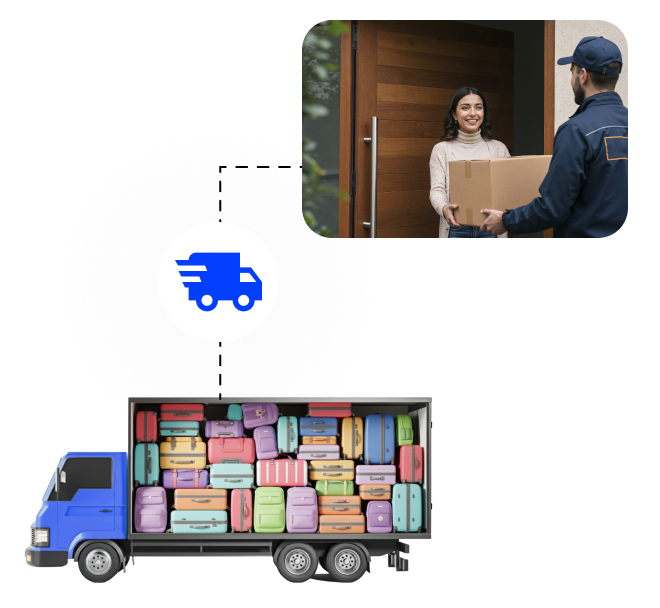
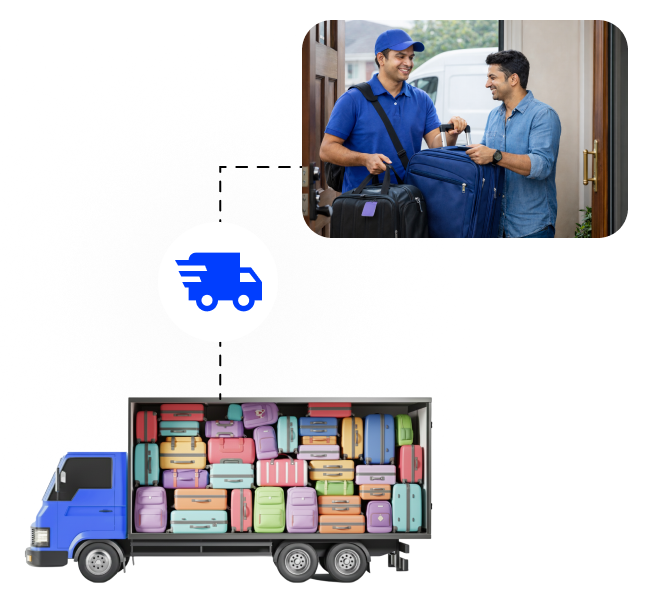
home page image feedbacks

Changed region(s): [[0.4545, 0.0312, 0.9697, 0.4062]]

diff --git a/components/Slider.jsx b/components/Slider.jsx
@@ -13,6 +13,7 @@ import Tier from "@/asset/why-choose/tier.png";
 import LiveTracking from "@/asset/why-choose/live-tracking.png";
 import OnTime from "@/asset/why-choose/on-time-delivery.png";
 import Corporate from "@/asset/why-choose/corporate.png";
+import Support from "@/asset/why-choose/support.png";
 
 const data = [
   {
@@ -44,6 +45,11 @@ const data = [
     title: "Nationwide Luggage Delivery Network",
     desc: "We deliver luggage across major, tier-2, and tier-3 cities, supporting seamless travel, relocation, and baggage movement nationwide.",
     img: Tier,
+  },
+   {
+    title: "Dedicated SPOC Support",
+    desc: "One single point of contact for bookings, tracking, and support — ensuring faster coordination and hassle-free luggage delivery.",
+    img: Support,
   },
 ];
 
